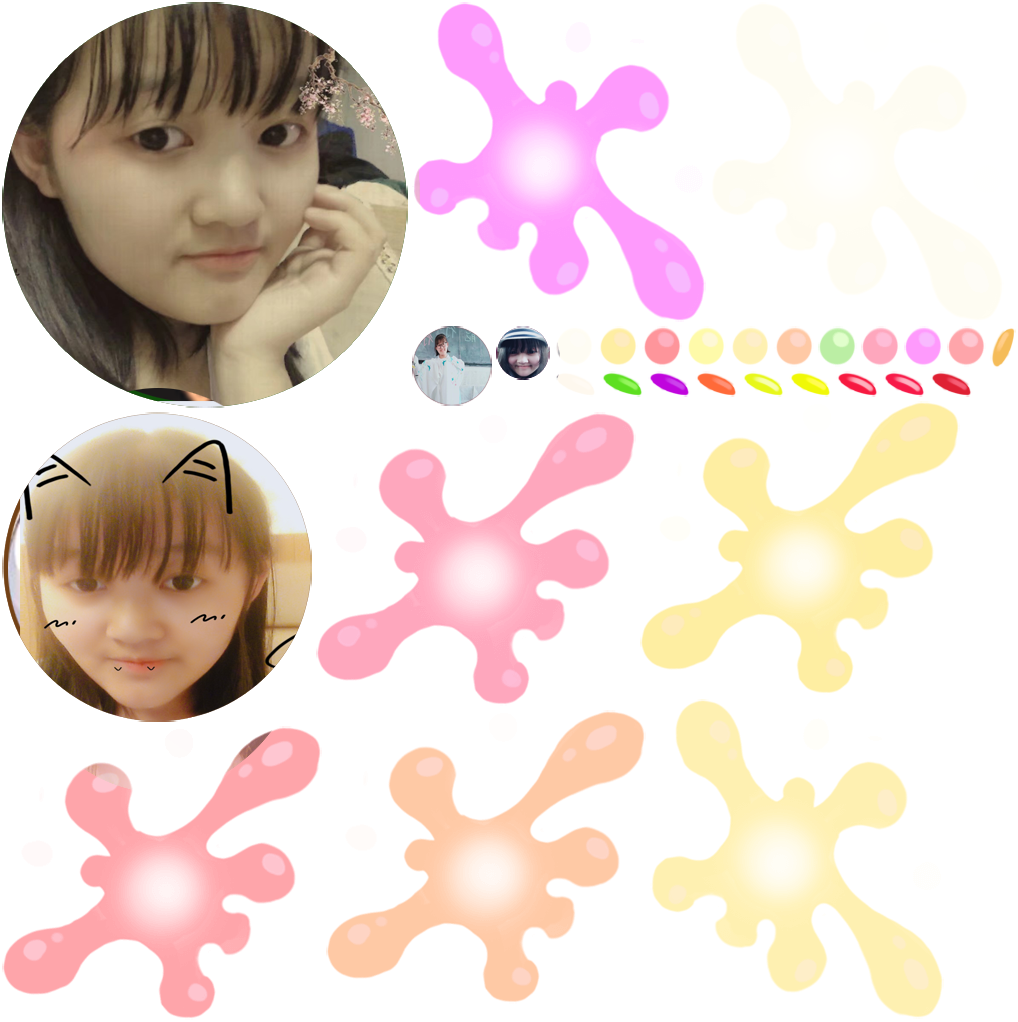
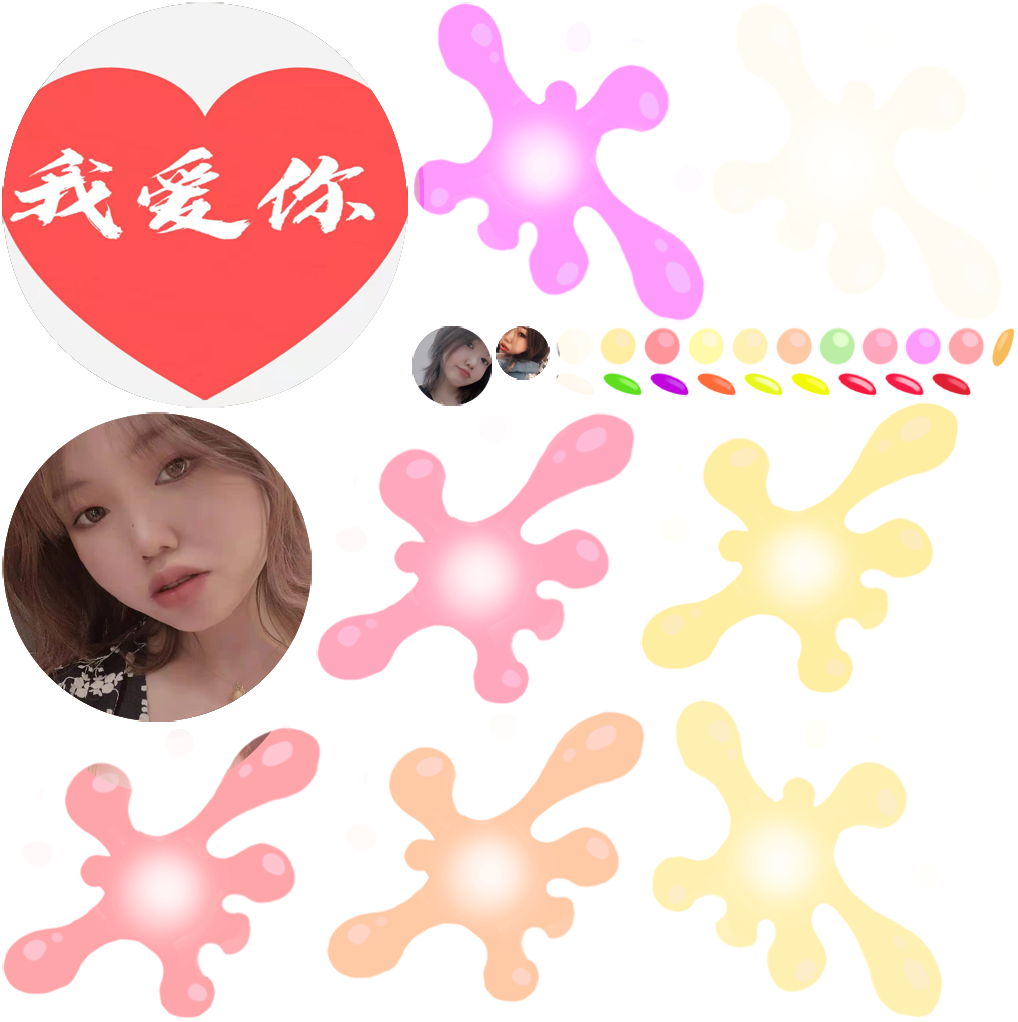
nitial commit

Changed region(s): [[0.0, 0.0, 0.4263, 0.728], [0.3959, 0.3033, 0.5481, 0.3943]]

diff --git a/index.html b/index.html
@@ -4,7 +4,7 @@
 <head>
     <meta charset="utf-8">
 
-    <title>合成冰大漂亮</title>
+    <title>合成大宝宝</title>
 
     <!--http://www.html5rocks.com/en/mobile/mobifying/-->
     <meta name="viewport" content="width=device-width,user-scalable=no,initial-scale=1, minimum-scale=1,maximum-scale=1" />
@@ -109,7 +109,7 @@
             //        console.log("window.navigator.language",window.navigator.language);
 
             if (window.navigator.language == "zh-CN" || window.navigator.language == "zh-cn") {
-                document.title = "合成冰大漂亮";
+                document.title = "合成大宝宝";
             } 
 
 
